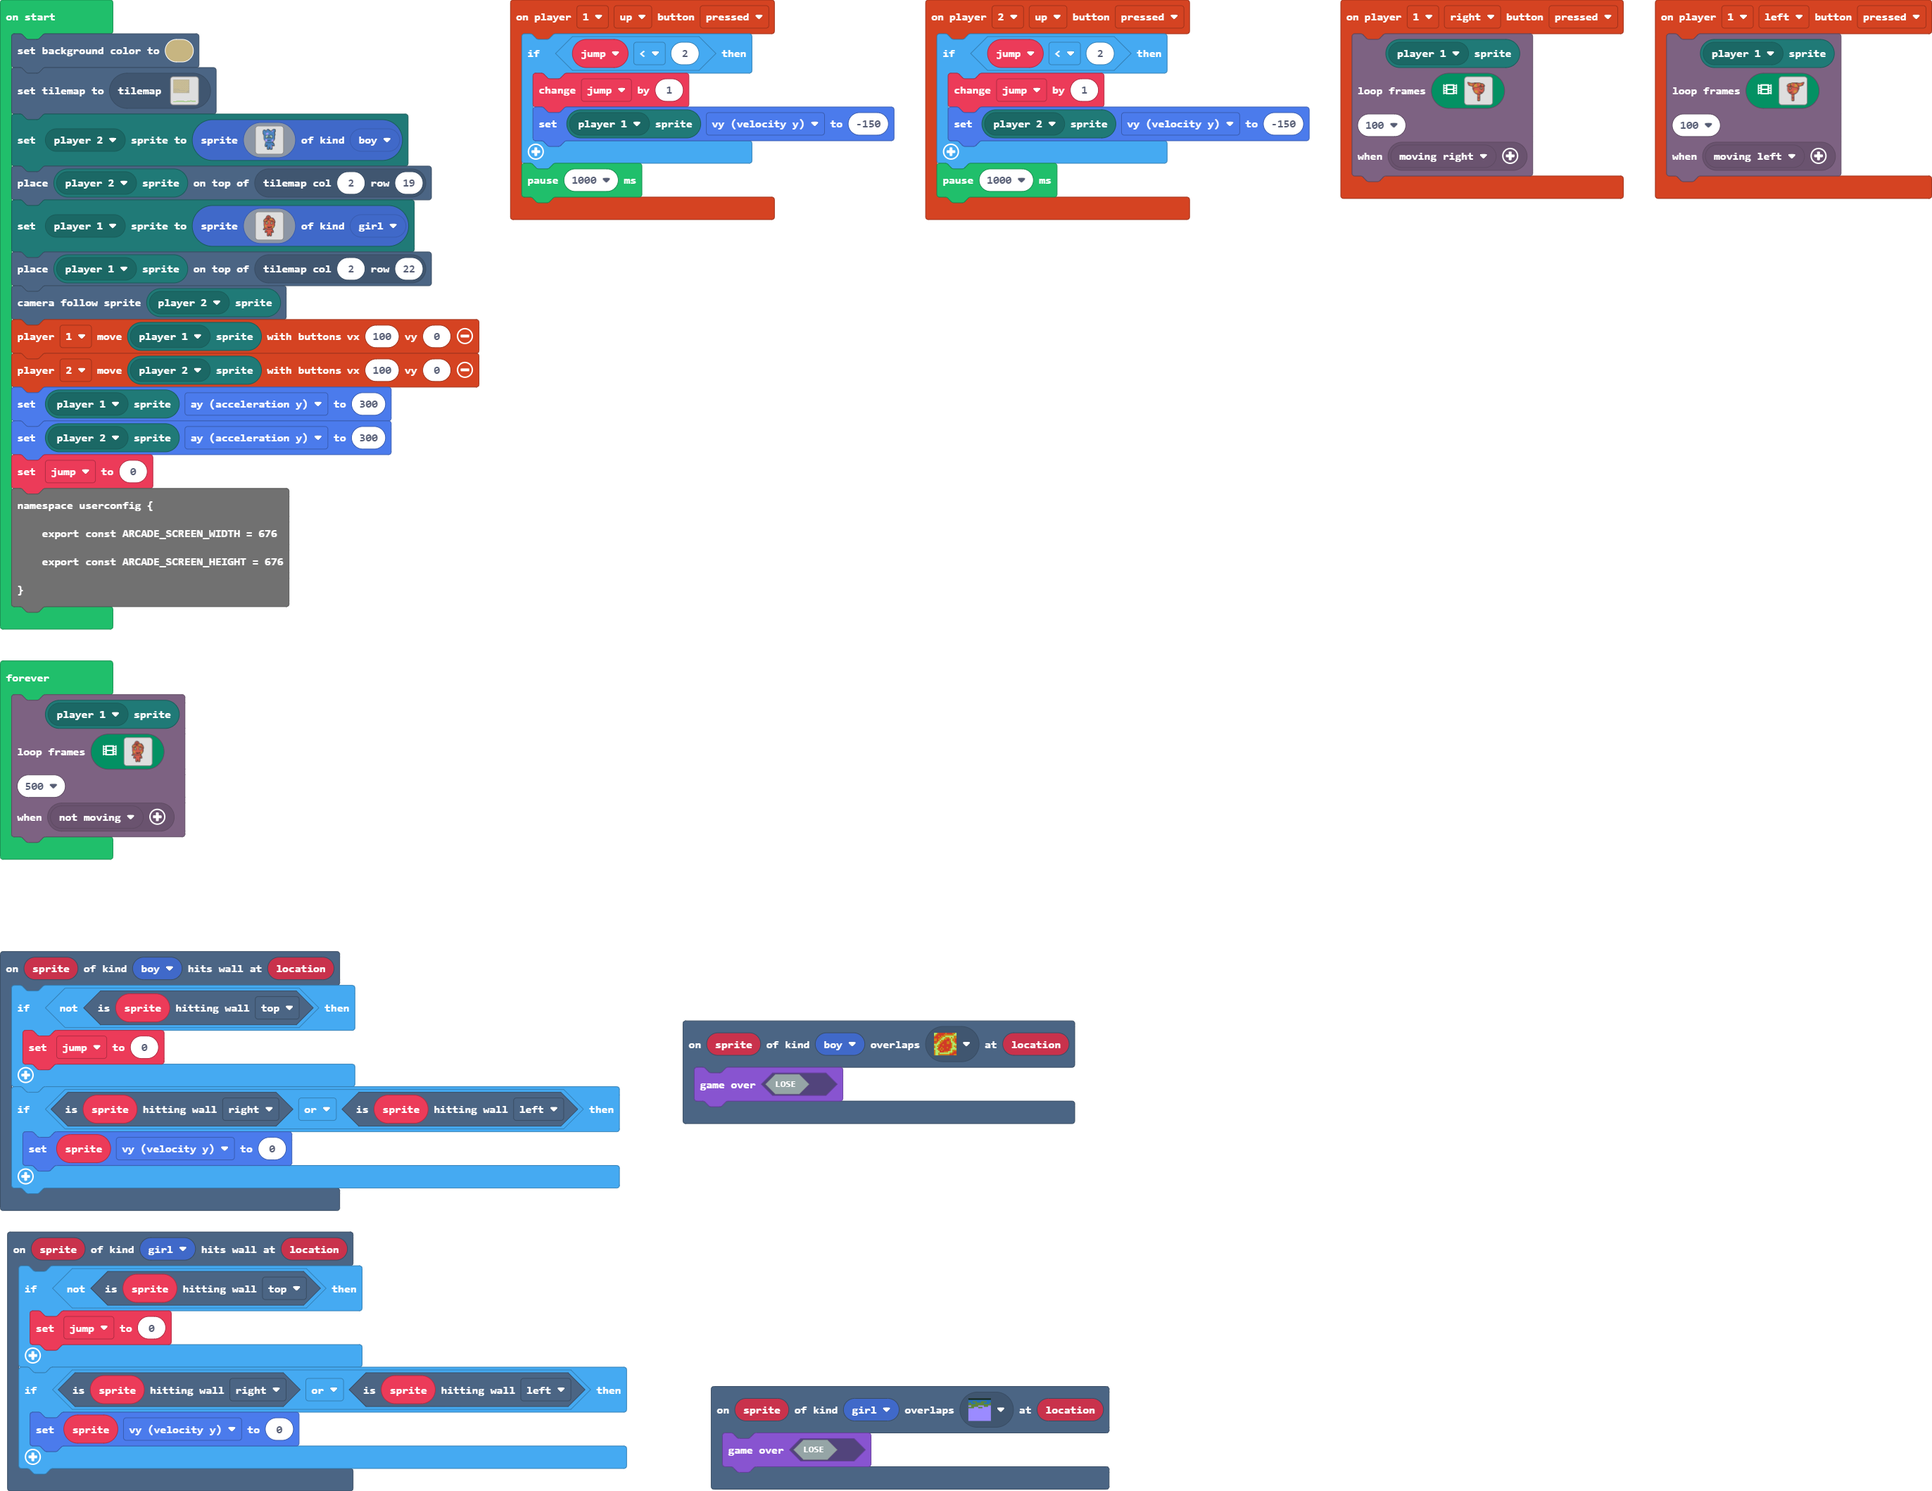
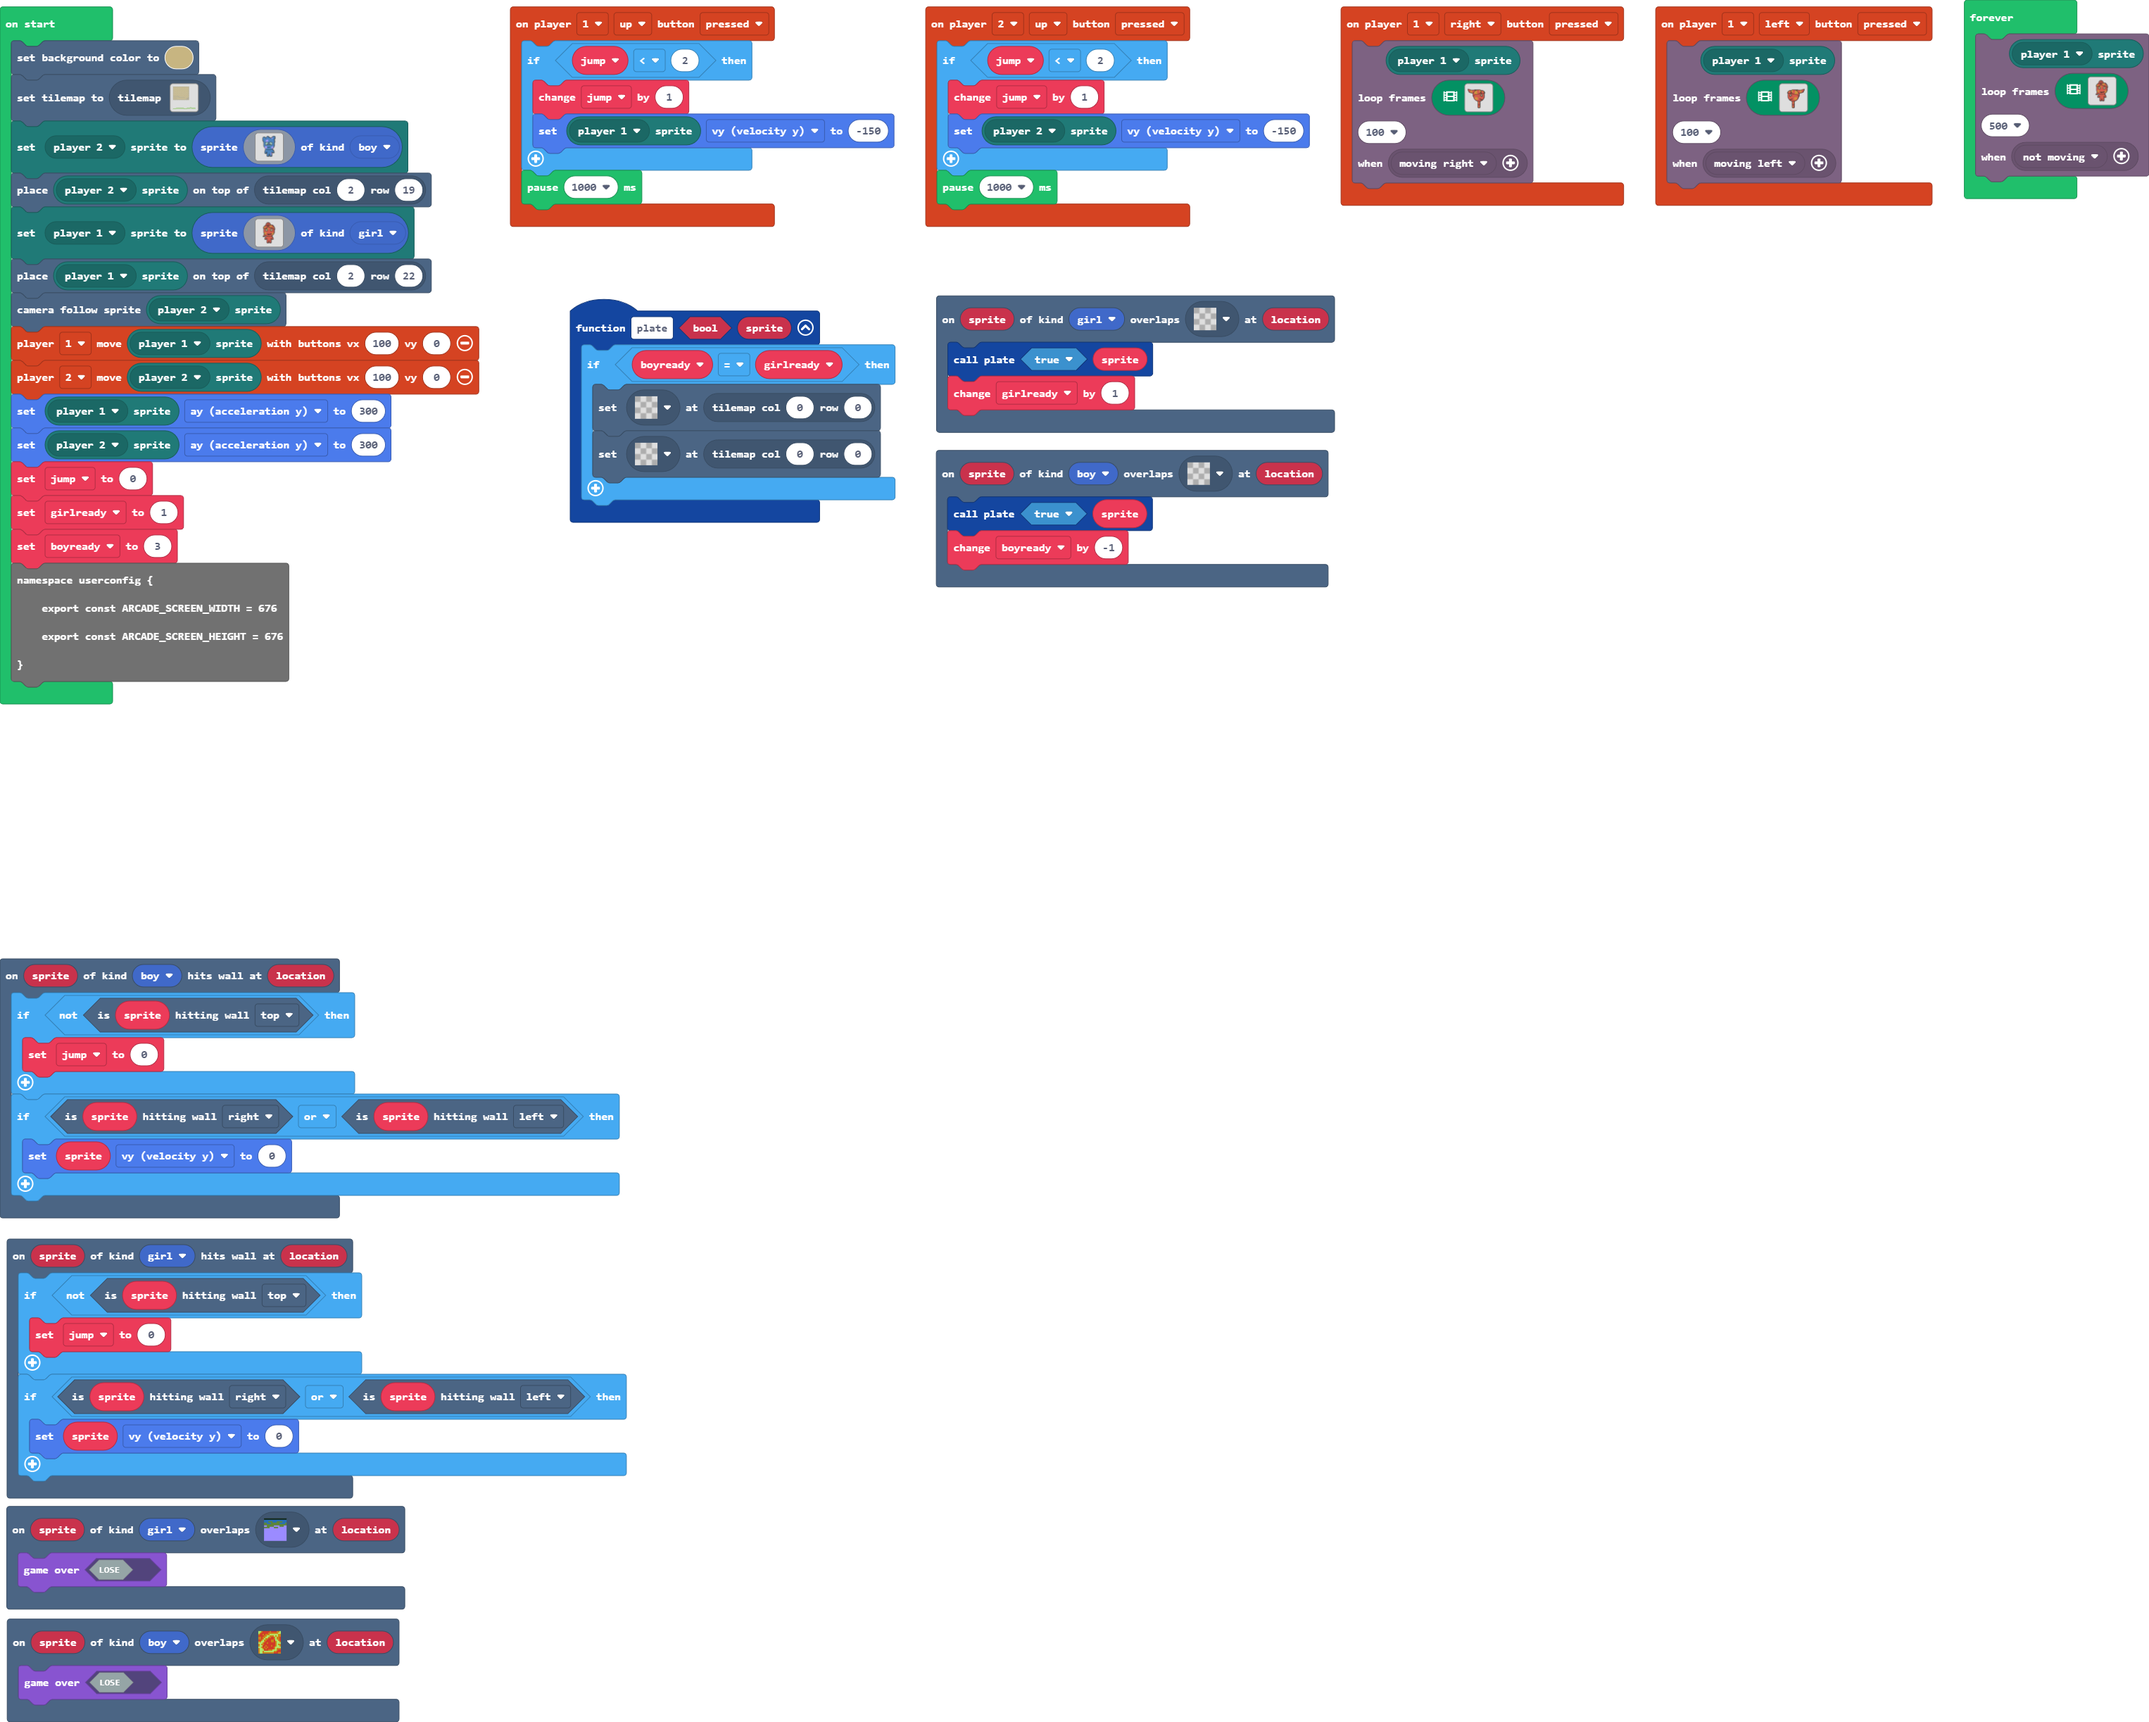
Update main.blocks, main.ts

Changed region(s): [[0.0, 0.0, 1.0, 1.0]]

diff --git a/main.ts b/main.ts
@@ -9,6 +9,12 @@ controller.player1.onButtonEvent(ControllerButton.Up, ControllerButtonEvent.Pres
     }
     pause(1000)
 })
+function plate (bool: boolean, sprite: Sprite) {
+    if (boyready == girlready) {
+        tiles.setTileAt(tiles.getTileLocation(0, 0), assets.tile`transparency16`)
+        tiles.setTileAt(tiles.getTileLocation(0, 0), assets.tile`transparency16`)
+    }
+}
 scene.onOverlapTile(SpriteKind.girl, sprites.dungeon.hazardWater, function (sprite, location) {
     game.gameOver(false)
 })
@@ -29,6 +35,10 @@ scene.onHitWall(SpriteKind.girl, function (sprite, location) {
 })
 scene.onOverlapTile(SpriteKind.boy, sprites.dungeon.hazardLava0, function (sprite, location) {
     game.gameOver(false)
+})
+scene.onOverlapTile(SpriteKind.boy, assets.tile`transparency16`, function (sprite, location) {
+    plate(true, sprite)
+    boyready += -1
 })
 controller.player1.onButtonEvent(ControllerButton.Right, ControllerButtonEvent.Pressed, function () {
     characterAnimations.loopFrames(
@@ -558,6 +568,10 @@ controller.player1.onButtonEvent(ControllerButton.Right, ControllerButtonEvent.P
     characterAnimations.rule(Predicate.MovingRight)
     )
 })
+scene.onOverlapTile(SpriteKind.girl, assets.tile`transparency16`, function (sprite, location) {
+    plate(true, sprite)
+    girlready += 1
+})
 scene.onHitWall(SpriteKind.boy, function (sprite, location) {
     if (!(sprite.isHittingTile(CollisionDirection.Top))) {
         jump = 0
@@ -574,6 +588,8 @@ controller.player1.onButtonEvent(ControllerButton.Left, ControllerButtonEvent.Pr
     characterAnimations.rule(Predicate.MovingLeft)
     )
 })
+let boyready = 0
+let girlready = 0
 let jump = 0
 scene.setBackgroundColor(13)
 tiles.setCurrentTilemap(tilemap`level0`)
@@ -587,6 +603,8 @@ controller.player2.moveSprite(mp.getPlayerSprite(mp.playerSelector(mp.PlayerNumb
 mp.getPlayerSprite(mp.playerSelector(mp.PlayerNumber.One)).ay = 300
 mp.getPlayerSprite(mp.playerSelector(mp.PlayerNumber.Two)).ay = 300
 jump = 0
+girlready = 1
+boyready = 3
 namespace userconfig {
     export const ARCADE_SCREEN_WIDTH = 676
     export const ARCADE_SCREEN_HEIGHT = 676
